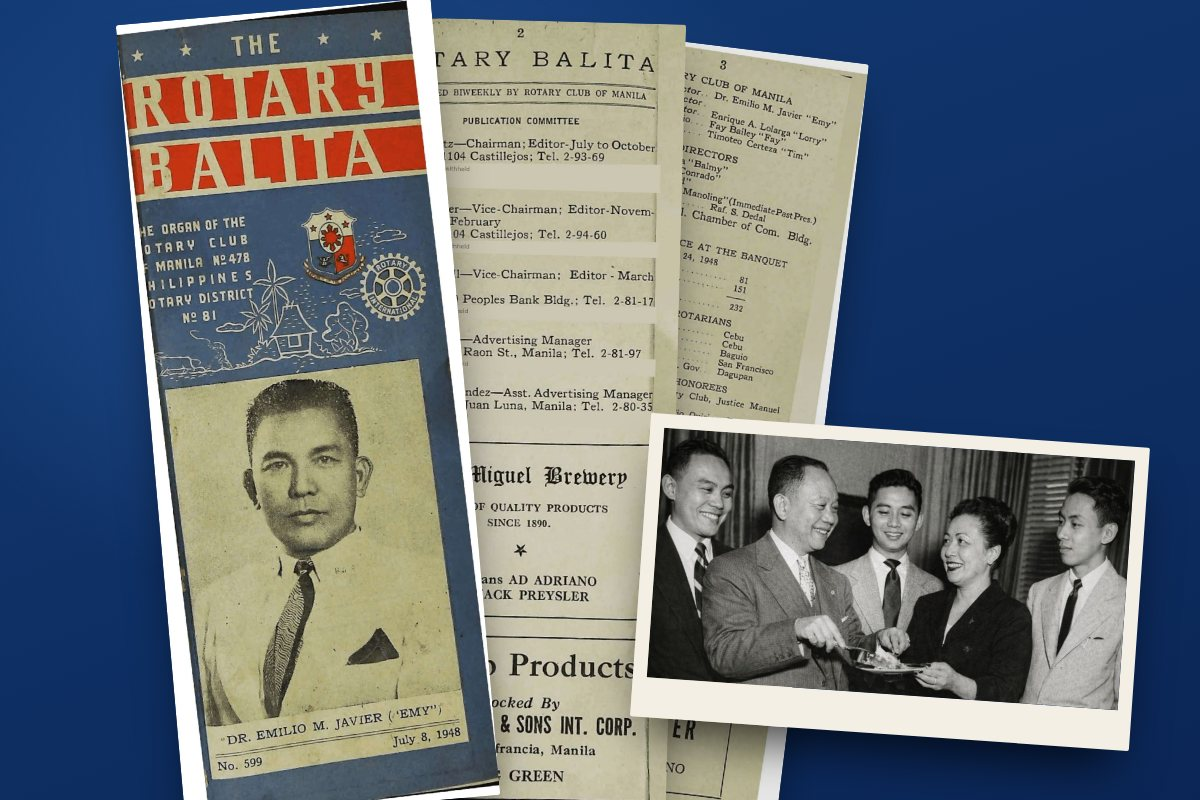
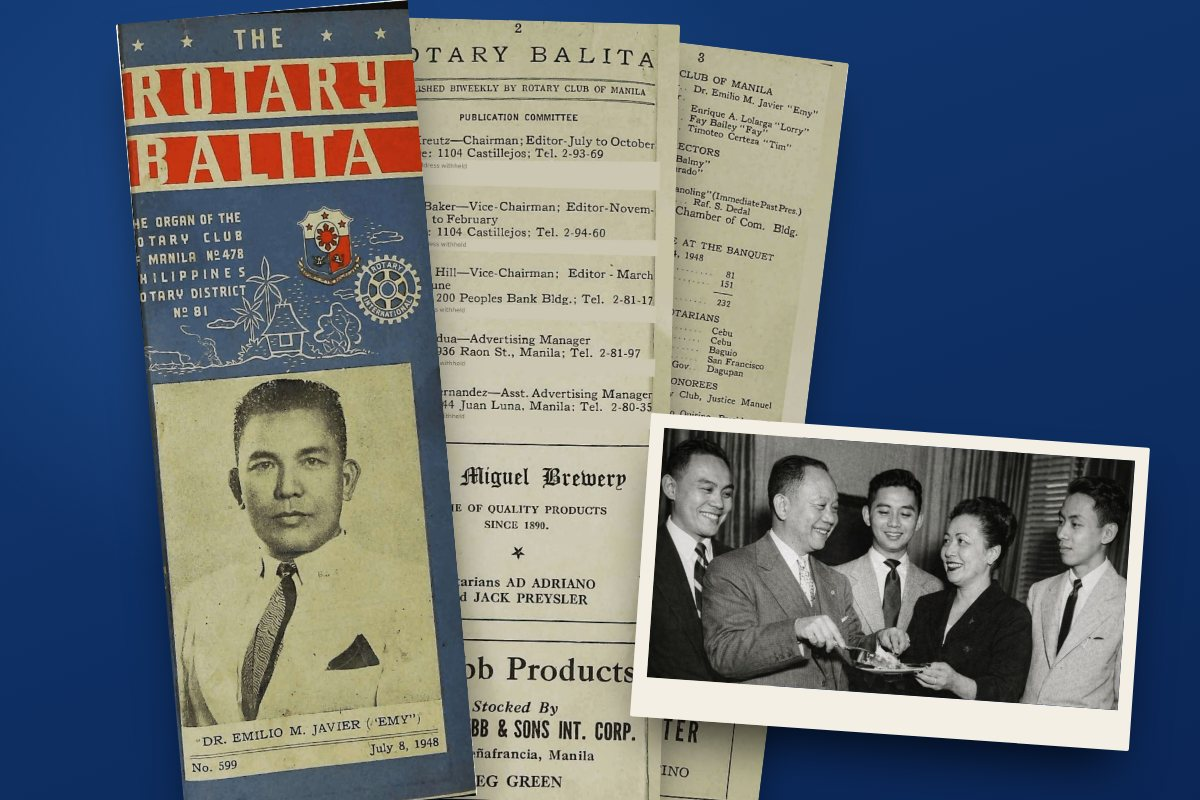
Add files via upload

Changed region(s): [[0.0925, 0.0, 0.74, 1.0]]

diff --git a/assets/library-covers.js b/assets/library-covers.js
@@ -1,0 +1,71 @@
+/* Heritage Library workshop: tidy the bound-volume covers. Each cover photo is straightened and trimmed in this
+   browser (assets/tidy-cover.js), saved as a new file beside the original, and the volume is pointed at it.
+   The original photos stay in storage untouched. */
+(function () {
+  const $ = (id) => document.getElementById(id);
+  const L = () => window.RCMLib;
+  const ARCH = 'https://archive.rcmanila.org';
+  const pub = (p) => ARCH + '/' + String(p).split('/').map(encodeURIComponent).join('/');
+  const isTidy = (p) => /\/cov\/tidy-/.test(p || '');
+  let busy = false;
+
+  async function putPublic(key, blob) {
+    const { urls } = await L().call('r2-put', { keys: [key] });
+    const r = await fetch(urls[0], { method: 'PUT', headers: { 'content-type': 'image/jpeg', 'cache-control': 'public, max-age=31536000' }, body: blob });
+    if (!r.ok) throw new Error('Could not save to the library storage (' + r.status + ').');
+  }
+  async function load(path) {
+    const r = await fetch(pub(path), { mode: 'cors', cache: 'no-store' });
+    if (!r.ok) throw new Error('Could not read the cover (' + r.status + ').');
+    return createImageBitmap(await r.blob());
+  }
+  function fit(c, maxH) {
+    const k = Math.min(1, maxH / c.height); if (k === 1) return c;
+    const o = document.createElement('canvas'); o.width = Math.round(c.width * k); o.height = Math.round(c.height * k);
+    const x = o.getContext('2d'); x.imageSmoothingQuality = 'high'; x.drawImage(c, 0, 0, o.width, o.height); return o;
+  }
+  const toBlob = (c) => new Promise((res) => c.toBlob(res, 'image/jpeg', 0.86));
+  function thumb(src, label) {
+    const f = document.createElement('figure'); f.style.cssText = 'margin:0;display:inline-flex;flex-direction:column;gap:4px;font-size:12px;color:#5b6b80';
+    const c = document.createElement('canvas'); const h = 140, w = Math.round(src.width * h / src.height); c.width = w; c.height = h;
+    c.getContext('2d').drawImage(src, 0, 0, w, h); c.style.cssText = 'height:140px;width:auto;background:#f0f;border-radius:3px';
+    f.appendChild(c); const t = document.createElement('figcaption'); t.textContent = label; f.appendChild(t); return f;
+  }
+
+  async function run() {
+    if (busy) return; busy = true; const btn = $('cov-tidy'), msg = $('cov-msg'), prev = $('cov-prev');
+    btn.disabled = true; prev.innerHTML = '';
+    try {
+      const vols = (await L().call('vol-list')).volumes.filter((v) => v.status === 'published' && v.cover_path && !isTidy(v.cover_path));
+      if (!vols.length) { msg.textContent = 'All volume covers are already tidy.'; return; }
+      let done = 0, same = 0, failed = 0;
+      for (let i = 0; i < vols.length; i++) {
+        const v = vols[i]; msg.textContent = `Tidying covers… ${i + 1} of ${vols.length} (${v.acc}). Keep this page open.`;
+        try {
+          const img = await load(v.cover_path);
+          const t = window.tidyPage(img);
+          if (!t) same++;
+          // A cover that is already clean is saved as-is under the tidy name, so it is not offered again.
+          const src = t || (() => { const c = document.createElement('canvas'); c.width = img.width; c.height = img.height; c.getContext('2d').drawImage(img, 0, 0); return c; })();
+          const out = fit(src, 1800), key = `vol/${v.acc.toLowerCase()}/cov/tidy-${Date.now().toString(36)}.jpg`;
+          await putPublic(key, await toBlob(out));
+          await L().call('vol-save', { id: v.id, fields: { cover_path: key } });
+          if (!t) continue;
+          done++;
+          const pair = document.createElement('div'); pair.style.cssText = 'display:inline-flex;gap:6px;margin:0 14px 12px 0;vertical-align:top';
+          pair.appendChild(thumb(img, v.acc + ' before')); pair.appendChild(thumb(out, 'after')); prev.appendChild(pair);
+        } catch (e) { if (e.auth) return L().show('login'); failed++; console.warn(v.acc, e); }
+      }
+      msg.textContent = `${done} cover${done === 1 ? '' : 's'} tidied${same ? `, ${same} already clean` : ''}${failed ? `, ${failed} could not be read (try again later)` : ''}. The originals are kept in storage.`;
+      document.dispatchEvent(new CustomEvent('rcmlib:covers'));
+    } catch (e) { if (e.auth) return L().show('login'); msg.textContent = e.message; }
+    finally { busy = false; btn.disabled = false; }
+  }
+
+  // How many covers still need tidying (used by the Today dashboard and the button label).
+  window.RCMCovers = {
+    async count() { try { return (await L().call('vol-list')).volumes.filter((v) => v.status === 'published' && v.cover_path && !isTidy(v.cover_path)).length; } catch (e) { return 0; } },
+    run,
+  };
+  document.addEventListener('click', (e) => { if (e.target.closest('#cov-tidy')) run(); });
+})();

diff --git a/assets/tidy-cover.js b/assets/tidy-cover.js
@@ -1,0 +1,63 @@
+/* Straightens and trims a photographed or scanned page so no white or table background shows around it.
+   Works on any image the page can read (same origin or CORS). Returns a canvas, or null when no clear page edge is found. */
+(function () {
+  function lum(d, i) { return 0.299 * d[i] + 0.587 * d[i + 1] + 0.114 * d[i + 2]; }
+  function analyse(src, W) {
+    const s = W / src.width, H = Math.round(src.height * s);
+    const c = document.createElement('canvas'); c.width = W; c.height = H;
+    const x = c.getContext('2d', { willReadFrequently: true }); x.drawImage(src, 0, 0, W, H);
+    const d = x.getImageData(0, 0, W, H).data, g = new Float32Array(W * H);
+    for (let i = 0; i < W * H; i++) g[i] = lum(d, i * 4);
+    // Background = the bright surround; the page/cover is anything clearly darker than it.
+    const edge = []; for (let xx = 0; xx < W; xx++) { edge.push(g[xx], g[(H - 1) * W + xx]); } for (let yy = 0; yy < H; yy++) { edge.push(g[yy * W], g[yy * W + W - 1]); }
+    edge.sort((a, b) => a - b); const bg = edge[Math.floor(edge.length * 0.9)];
+    return { g, W, H, s, bg };
+  }
+  function edges(a, thr) {
+    const { g, W, H } = a, L = [], R = [];
+    for (let y = Math.floor(H * 0.08); y < H * 0.92; y++) {
+      let l = -1, r = -1;
+      for (let x = 0; x < W - 3; x++) if (g[y * W + x] < thr && g[y * W + x + 1] < thr && g[y * W + x + 2] < thr) { l = x; break; }
+      for (let x = W - 1; x > 2; x--) if (g[y * W + x] < thr && g[y * W + x - 1] < thr && g[y * W + x - 2] < thr) { r = x; break; }
+      if (l >= 0 && r > l + W * 0.3) { L.push([y, l]); R.push([y, r]); }
+    }
+    return { L, R };
+  }
+  function slope(pts) {
+    if (pts.length < 20) return null;
+    // Robust: median of pairwise slopes between points far apart.
+    const sl = [], n = pts.length, step = Math.max(1, Math.floor(n / 60));
+    for (let i = 0; i < n; i += step) for (let j = i + Math.floor(n / 3); j < n; j += step) sl.push((pts[j][1] - pts[i][1]) / (pts[j][0] - pts[i][0]));
+    sl.sort((a, b) => a - b); return sl.length ? sl[Math.floor(sl.length / 2)] : null;
+  }
+  function bbox(a, thr) {
+    const { g, W, H } = a, col = new Float32Array(W), row = new Float32Array(H);
+    for (let y = 0; y < H; y++) for (let x = 0; x < W; x++) if (g[y * W + x] < thr) { col[x]++; row[y]++; }
+    let x0 = 0, x1 = W - 1, y0 = 0, y1 = H - 1;
+    while (x0 < W / 3 && col[x0] < H * 0.6) x0++;
+    while (x1 > W * 2 / 3 && col[x1] < H * 0.6) x1--;
+    while (y0 < H / 3 && row[y0] < (x1 - x0) * 0.6) y0++;
+    while (y1 > H * 2 / 3 && row[y1] < (x1 - x0) * 0.6) y1--;
+    return { x0, x1, y0, y1 };
+  }
+  window.tidyPage = function (img, opts = {}) {
+    const maxH = opts.maxHeight || 3200;
+    const a = analyse(img, 320), thr = a.bg - (opts.contrast || 38);
+    if (a.bg < 170) return null; // dark surround: nothing to trim
+    const { L, R } = edges(a, thr), sL = slope(L), sR = slope(R);
+    let ang = 0; if (sL != null && sR != null && Math.abs(sL - sR) < 0.02) ang = Math.atan((sL + sR) / 2); else if (sL != null && sR == null) ang = Math.atan(sL); else if (sR != null && sL == null) ang = Math.atan(sR);
+    if (Math.abs(ang) > 0.14) ang = 0; // over 8°: not a simple tilt, leave it
+    // Rotate the full image so the page stands straight, on a white ground.
+    const k = Math.min(1, maxH / img.height), w = Math.round(img.width * k), h = Math.round(img.height * k);
+    const r = document.createElement('canvas'); r.width = w; r.height = h; const rx = r.getContext('2d');
+    rx.fillStyle = '#fff'; rx.fillRect(0, 0, w, h); rx.translate(w / 2, h / 2); rx.rotate(ang); rx.drawImage(img, -w / 2, -h / 2, w, h);
+    const b = analyse(r, 320), bb = bbox(b, thr), f = w / 320;
+    const pw = (bb.x1 - bb.x0) * f, ph = (bb.y1 - bb.y0) * f;
+    if (pw < w * 0.35 || ph < h * 0.35) return null; // page edge not found reliably
+    const inset = Math.round(Math.min(pw, ph) * (opts.inset || 0.012));
+    const sx = Math.round(bb.x0 * f) + inset, sy = Math.round(bb.y0 * f) + inset, cw = Math.round(pw) - inset * 2, ch = Math.round(ph) - inset * 2;
+    if (cw > w * 0.985 && ch > h * 0.985 && Math.abs(ang) < 0.003) return null; // already tight
+    const o = document.createElement('canvas'); o.width = cw; o.height = ch; o.getContext('2d').drawImage(r, sx, sy, cw, ch, 0, 0, cw, ch);
+    o.dataset.angle = (ang * 180 / Math.PI).toFixed(2); return o;
+  };
+})();

diff --git a/library-admin.html b/library-admin.html
@@ -86,6 +86,7 @@ th{background:#f8fafc;font-size:12.5px;color:var(--ink-2);position:sticky;top:0}
 <h2 style="margin:0">Bound Balita volumes, 1948–2009</h2>
 <div class="done-note" id="vol-done"><span>✓</span><span><b>Finished.</b> All bound volumes are in the library. Use this only to add a newly scanned volume or redo one.</span></div>
 <div class="note hidden" id="vol-todo"></div>
+<div class="panel-sub"><div class="row"><button class="btn btn-line" id="cov-tidy" type="button" style="color:var(--navy)">Tidy the volume covers</button><span id="cov-msg" class="muted">Straightens each cover photo and trims the white background around it. The originals are kept.</span></div><div id="cov-prev" style="margin-top:12px"></div></div>
 <p class="muted" style="margin:0">Each volume is read page by page: a web image of every page, the page text (read by machine where the scan has none), and the issues found inside. Pages that print home addresses have those lines blanked; member directories are withheld. Volumes with the same issues are grouped; the best copy is ticked.</p>
 <div class="note">A volume takes about 5 to 20 minutes. The whole shelf can take a few nights. Use a computer that stays on, with a good connection.</div>
 <div class="row"><button class="btn btn-blue" id="vol-start" type="button">Process ticked volumes</button><button class="btn btn-line" id="vol-stop" type="button" style="color:var(--navy)" disabled>Stop after this page</button><label class="row" style="gap:6px;font-weight:600"><input type="checkbox" id="vol-pub" checked> Publish each volume when done</label><span id="vol-msg" class="muted"></span></div>
@@ -178,6 +179,8 @@ th{background:#f8fafc;font-size:12.5px;color:var(--ink-2);position:sticky;top:0}
 <script src="/assets/library-admin.js?v=1005c"></script>
 <script src="/assets/library-museum.js?v=1005b"></script>
 <script src="/assets/library-videos.js?v=1005b"></script>
-<script src="/assets/library-dash.js?v=1005c"></script>
+<script src="/assets/tidy-cover.js?v=1005d"></script>
+<script src="/assets/library-covers.js?v=1005d"></script>
+<script src="/assets/library-dash.js?v=1005d"></script>
 </body>
 </html>

diff --git a/assets/library-dash.js b/assets/library-dash.js
@@ -33,6 +33,9 @@
       const vd = $('vol-done'), vt = $('vol-todo');
       if (vd && vt) { vd.classList.add('hidden'); vt.classList.remove('hidden'); vt.innerHTML = `<b>${v.length} volume${v.length > 1 ? 's' : ''} stopped part-way and ${v.length > 1 ? 'are' : 'is'} not on the website:</b> ${v.map((x) => `${esc(x.acc)} (${esc(x.years)}, ${D.fmt(x.done)} of ${D.fmt(x.pages)} pages)`).join('; ')}. Tick ${v.length > 1 ? 'them' : 'it'} below and click <b>Process ticked volumes</b> to run again. Each takes about 20 minutes.`; }
     }
+    // Bound-volume covers photographed on a white table: one click straightens and trims them.
+    const covN = window.RCMCovers ? await window.RCMCovers.count() : 0;
+    if (covN) items.push({ level: 'todo', icon: 'book', count: covN, title: covN === 1 ? 'volume cover to tidy' : 'volume covers to tidy', text: 'The cover photos show white table around the book and some are slightly tilted. One click straightens and trims them; the originals are kept. Keep the page open for a few minutes.', go: 'vol', label: 'Tidy' });
     // Video room: videos waiting, missing still frames, and this Rotary year's videos still to come from the Secretariat.
     let vids = [];
     try { vids = (await L().video('list', {})).items; } catch (e) { vids = []; }
